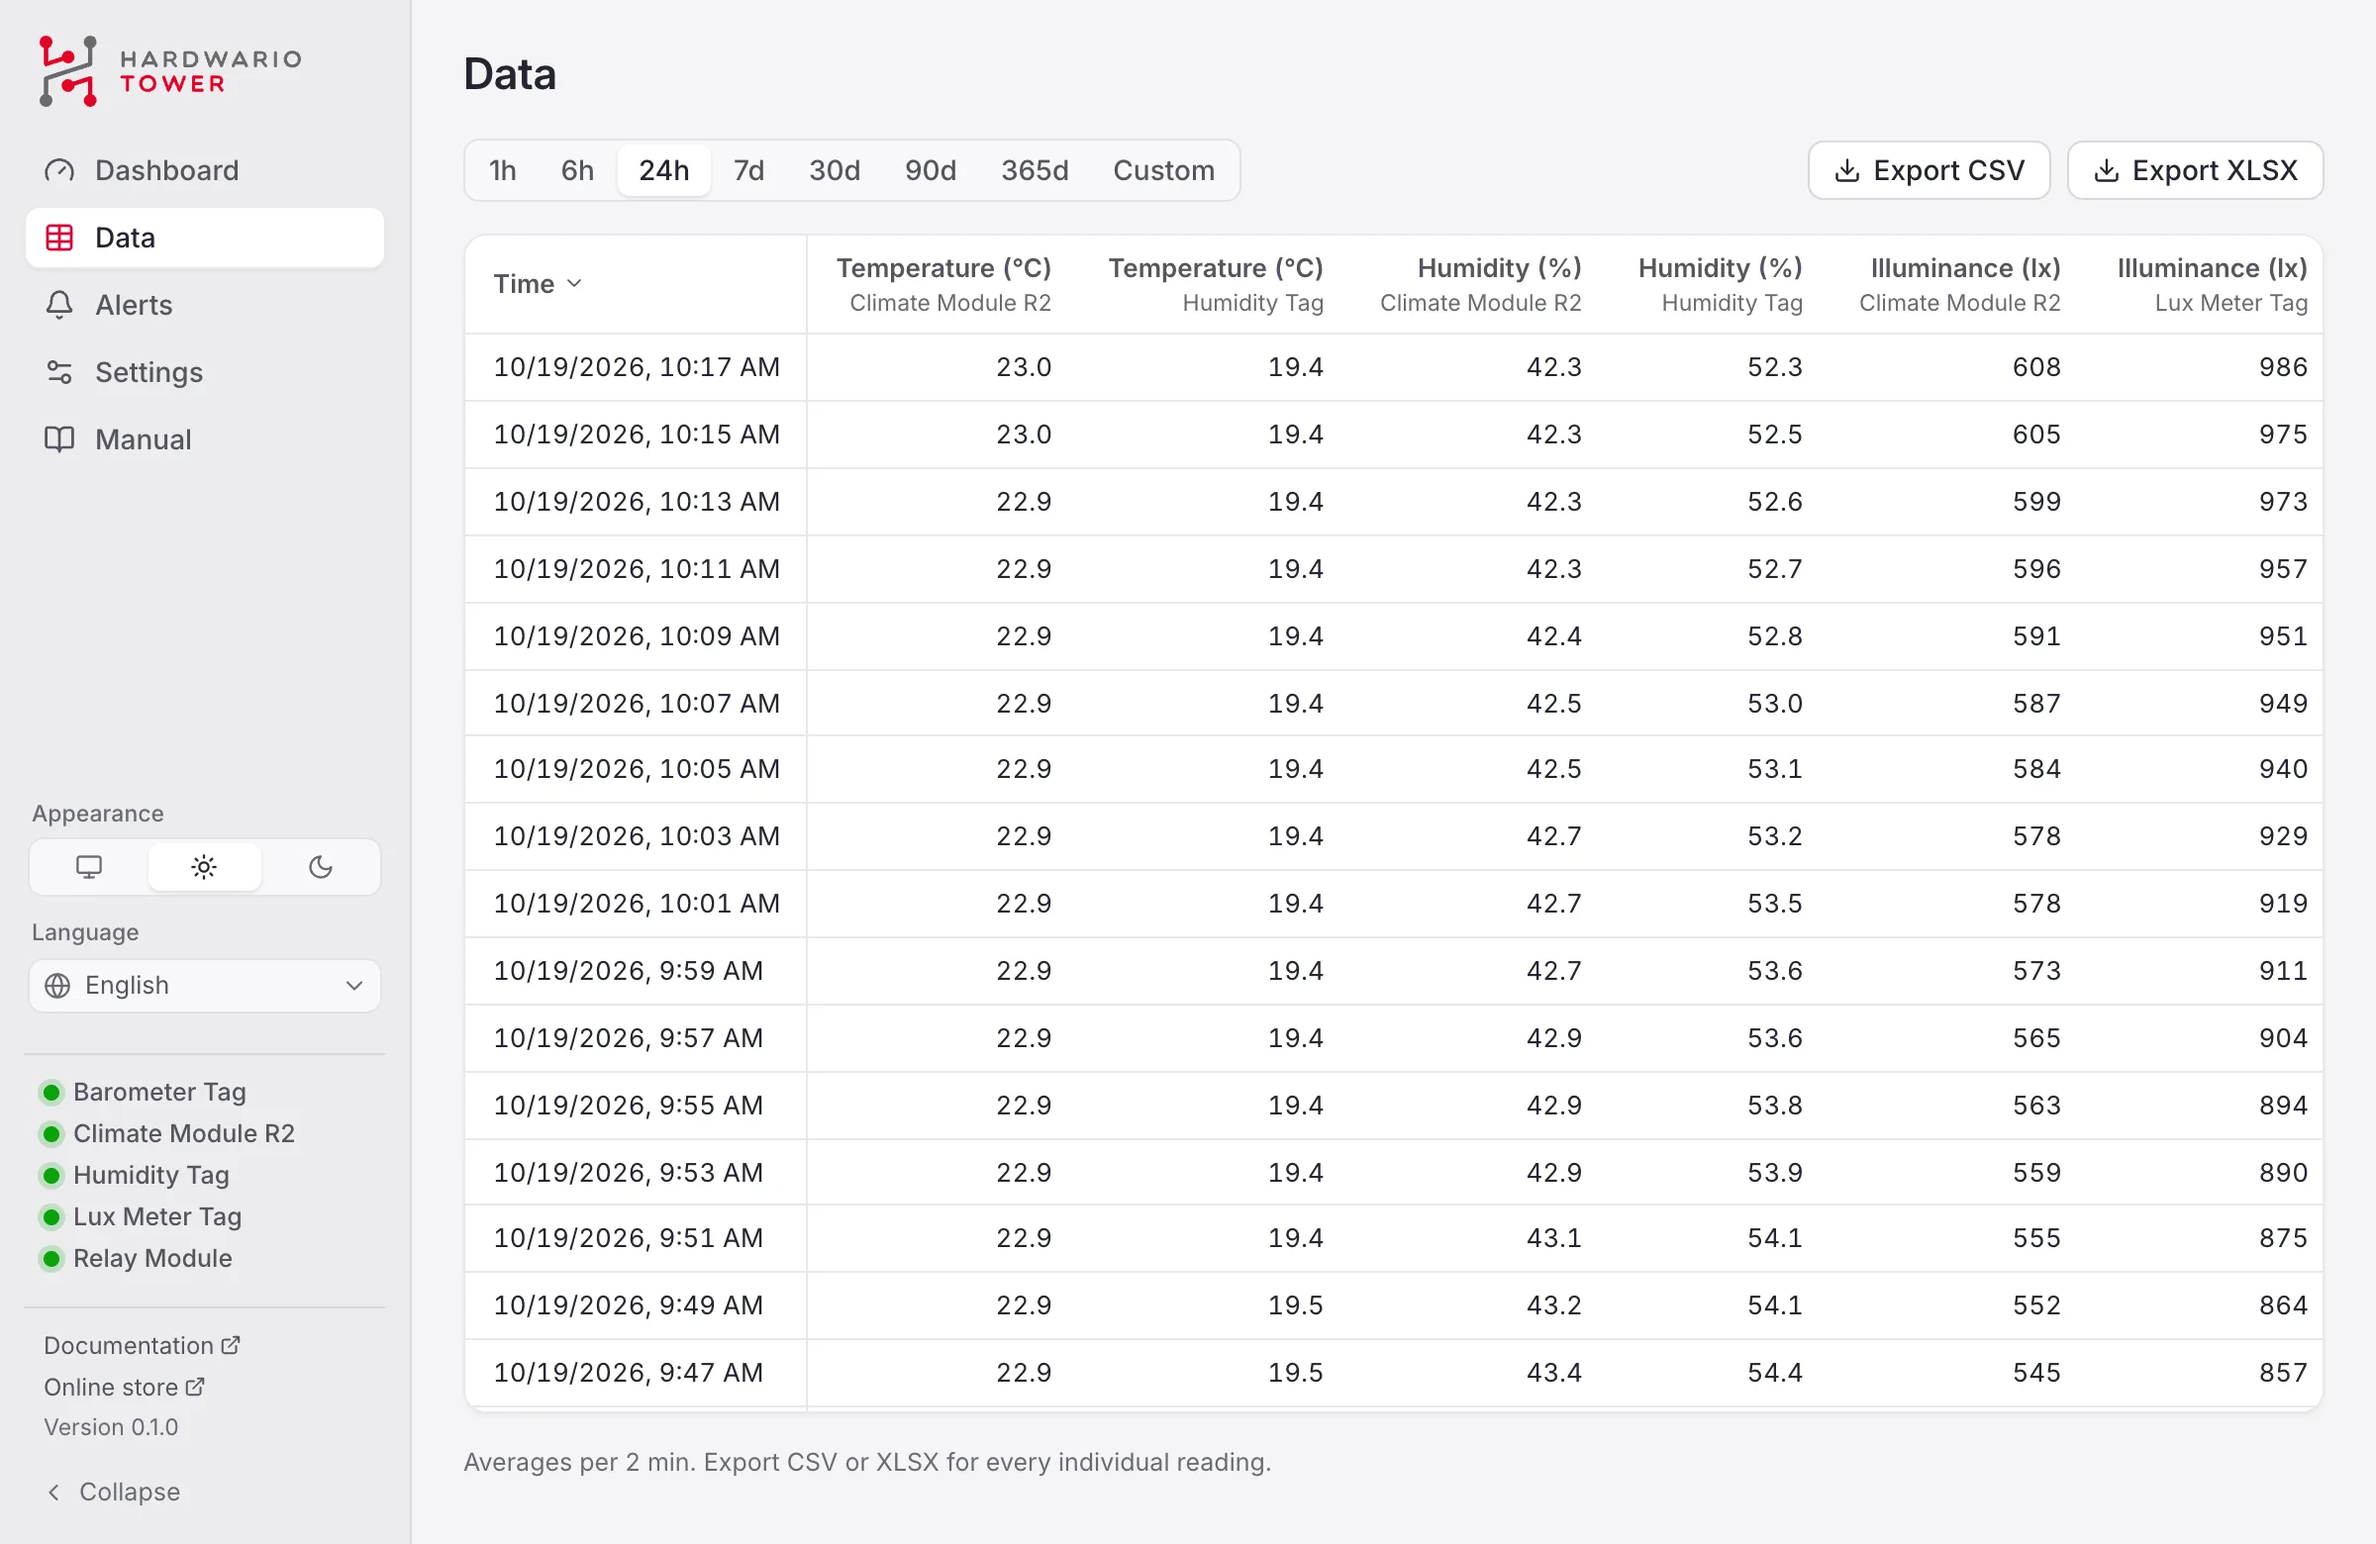
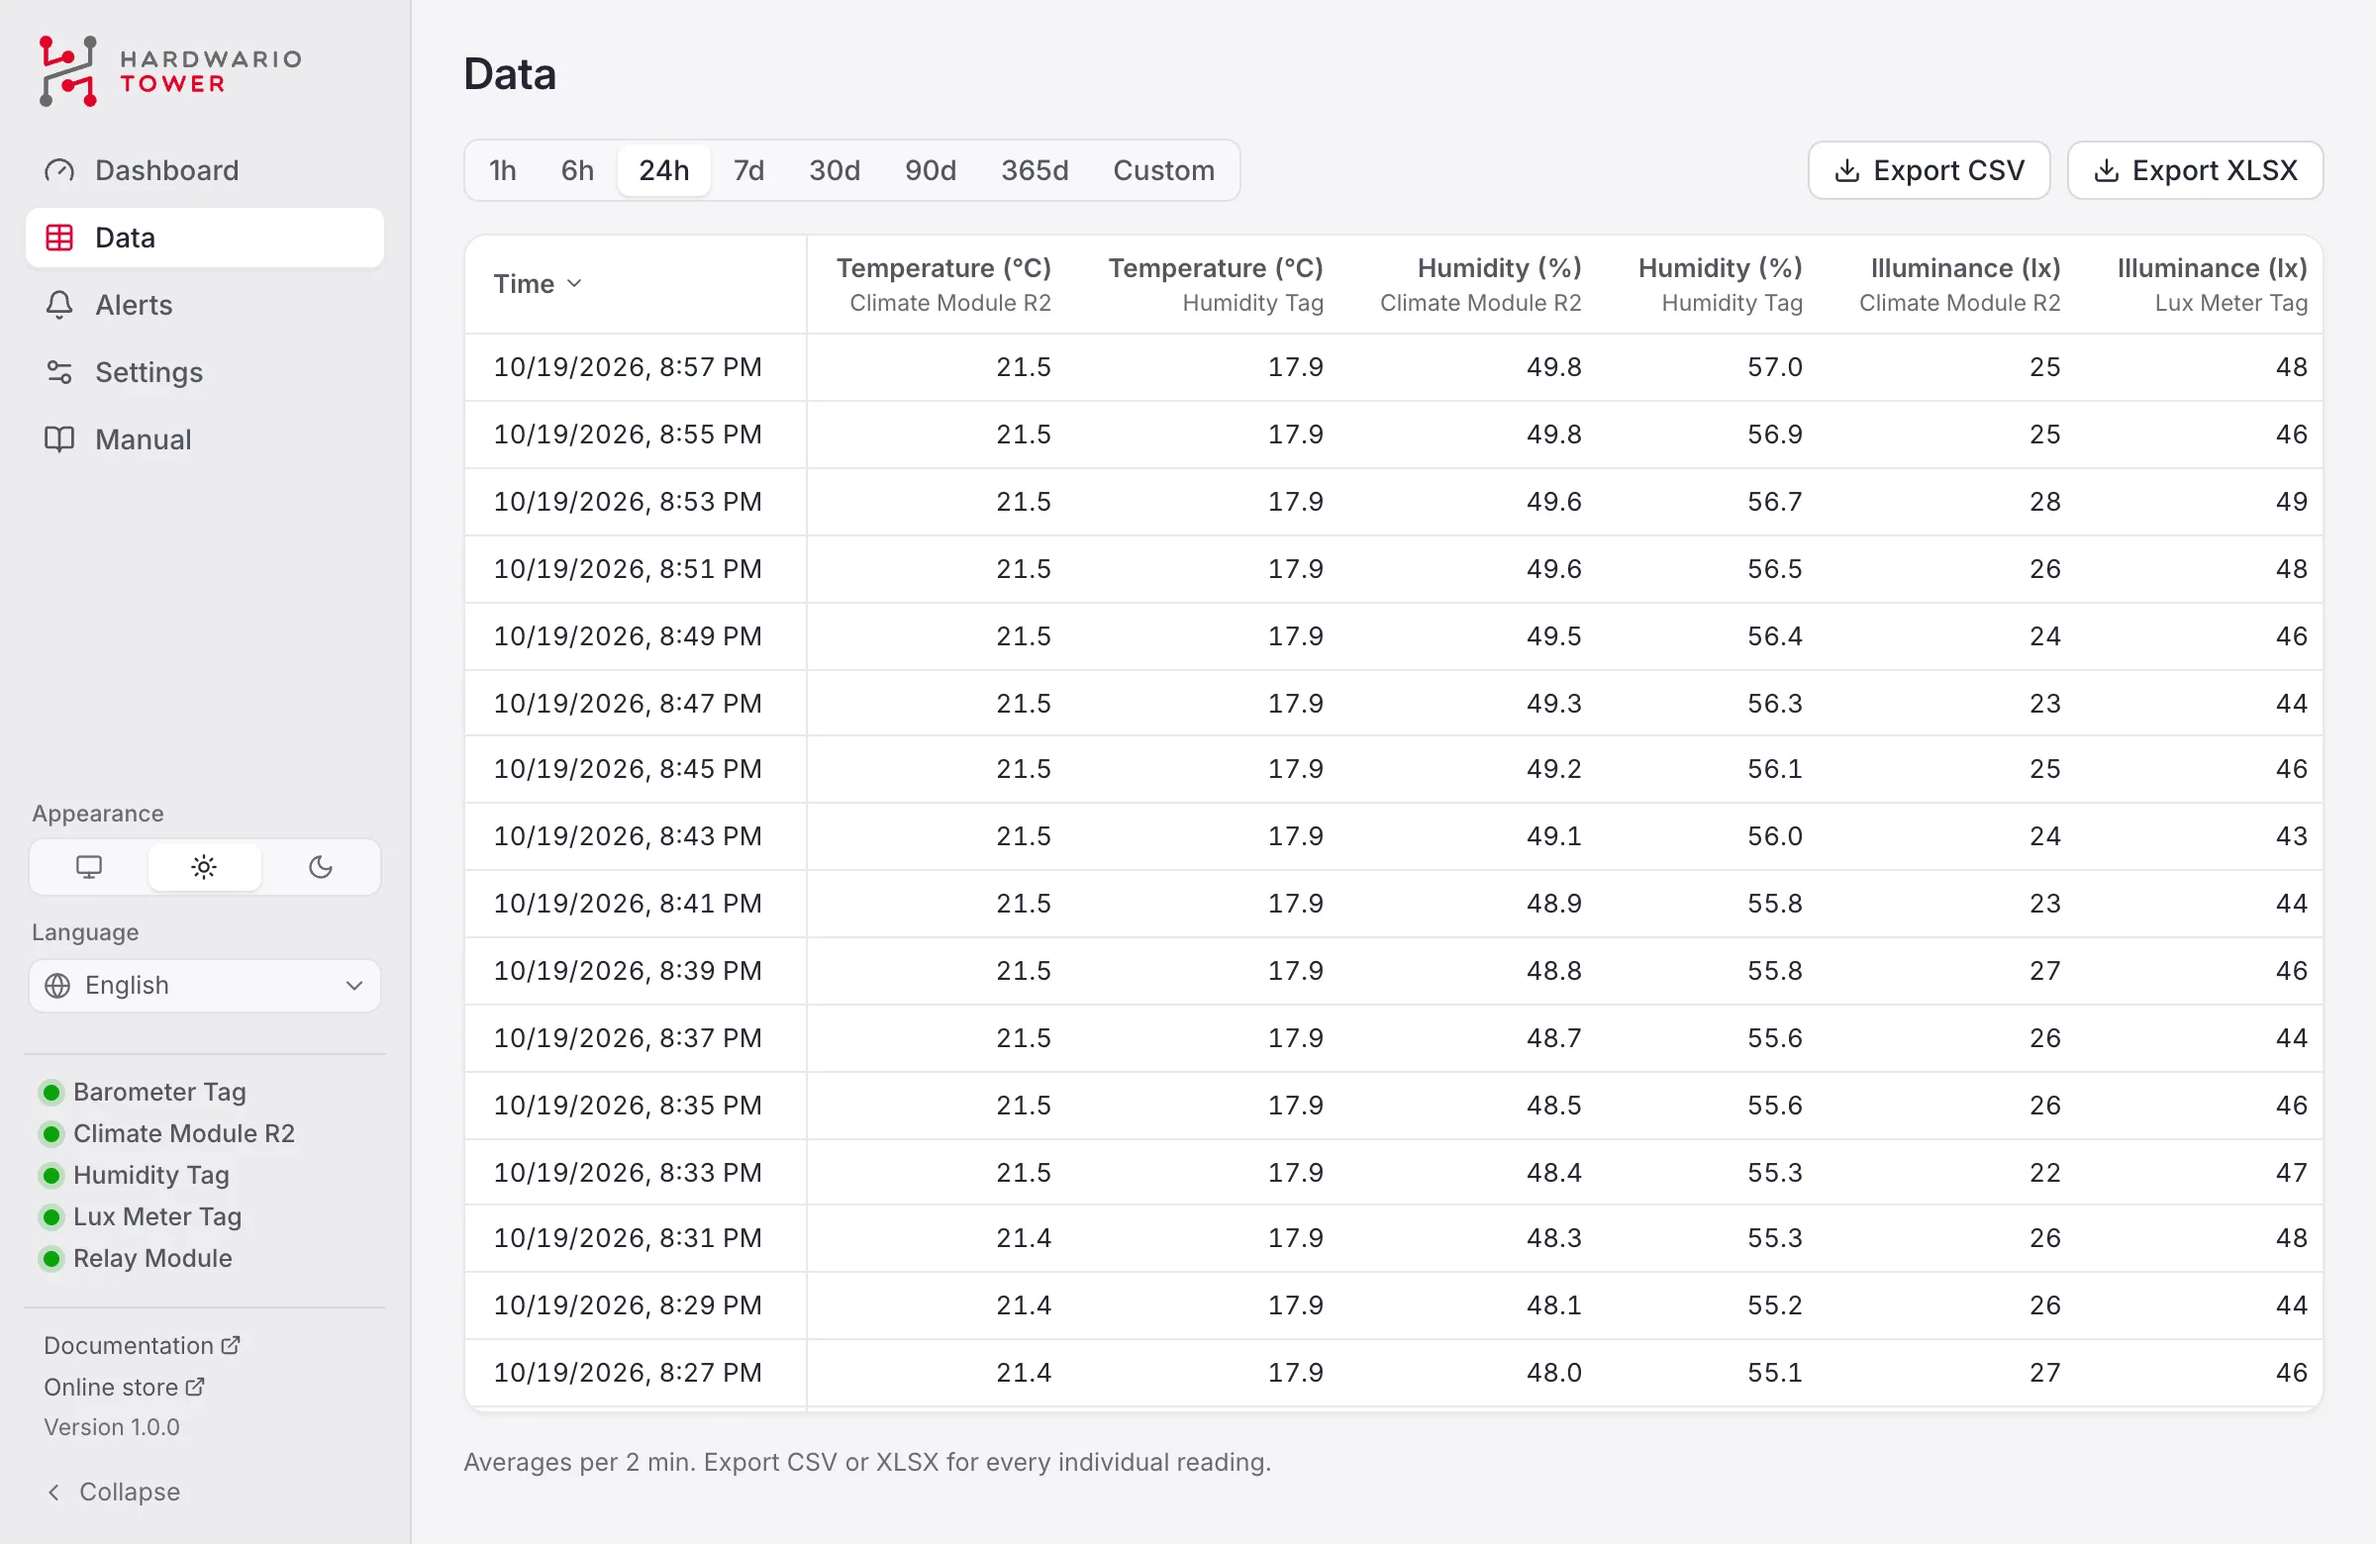
Release 1.0.0
Version 1.0.0 in package.json, the workspace and the app; the CHANGELOG
entry is dated; the manual's screenshots show the new version.

diff --git a/src/preview.ts b/src/preview.ts
@@ -336,7 +336,7 @@ const snapshot: Snapshot = {
           },
         ]
       : [],
-  app: { version: "0.1.0", data_dir: "~/Library/Application Support/com.hardwario.tower-bridge", portable: false, simulated: false, os: "macos", system_language: "en", exe_path: "/Applications/TOWER Bridge.app/Contents/MacOS/tower-bridge" },
+  app: { version: "1.0.0", data_dir: "~/Library/Application Support/com.hardwario.tower-bridge", portable: false, simulated: false, os: "macos", system_language: "en", exe_path: "/Applications/TOWER Bridge.app/Contents/MacOS/tower-bridge" },
 };
 
 mockIPC(

diff --git a/TODO.md b/TODO.md
@@ -49,7 +49,7 @@ Five reviews (Rust core, security, docs and translations, UI, release) found abo
 - **Tray:** the menu lists a line per measured metric (CO₂ and VOC included), none without a bridge. Not yet seen on a real tray.
 - **Notifications:** the channel in titles is translated.
 - **UI:** the colour picker no longer gets clipped; legends show the unit once, so names fit; the sidebar scrolls in small windows; the manual is one column below 1000 px; the big readings keep their decimal point; light-theme contrast; the chart tooltip only in the hovered chart, with labelled min and max; the GPS card keeps its size while searching; the Data table keeps its time column; aligned alert fields; recent alerts wrap cleanly; neutral hover; one Tab stop per segmented control; the drag handle is no dead Tab stop; selects drawn the same everywhere; the Bridge card lost its empty gap; the Linux permission banner gives a command that works with the AppImage; the NFC card confirms a write; the manual's image viewer has a close button; a missing value is a muted placeholder.
-- **Docs and translations:** README, api.md, mqtt.md, hardware.md, the manual (dashboard cards, translations in all languages) and the CHANGELOG (rewritten as one list for 0.1.0); about 60 translation fixes from a native-level review (Czech, Slovak, German, Polish).
+- **Docs and translations:** README, api.md, mqtt.md, hardware.md, the manual (dashboard cards, translations in all languages) and the CHANGELOG (rewritten as one list for the first release); about 60 translation fixes from a native-level review (Czech, Slovak, German, Polish).
 - **Release:** CI tests the whole workspace on all three OSes with read-only permissions; the release runs the tests first and creates the draft once; `check-version` covers the workspace and the CHANGELOG.
 - **Checked in an isolated `--simulate` instance of the built app** (the simulated bridge now has every module): CO₂, VOC and a GPS fix over REST and Prometheus, no warnings in the log, and 20 concurrent relay requests all answered at once.
 

diff --git a/CHANGELOG.md b/CHANGELOG.md
@@ -1,6 +1,6 @@
 # Changelog
 
-## 0.1.0 (unreleased)
+## 1.0.0 (2026-10-19)
 
 The first version: a tray app for the HARDWARIO TOWER Bridge Module (FTDI
 FT260) on macOS, Windows and Linux, continuing the command line tool
